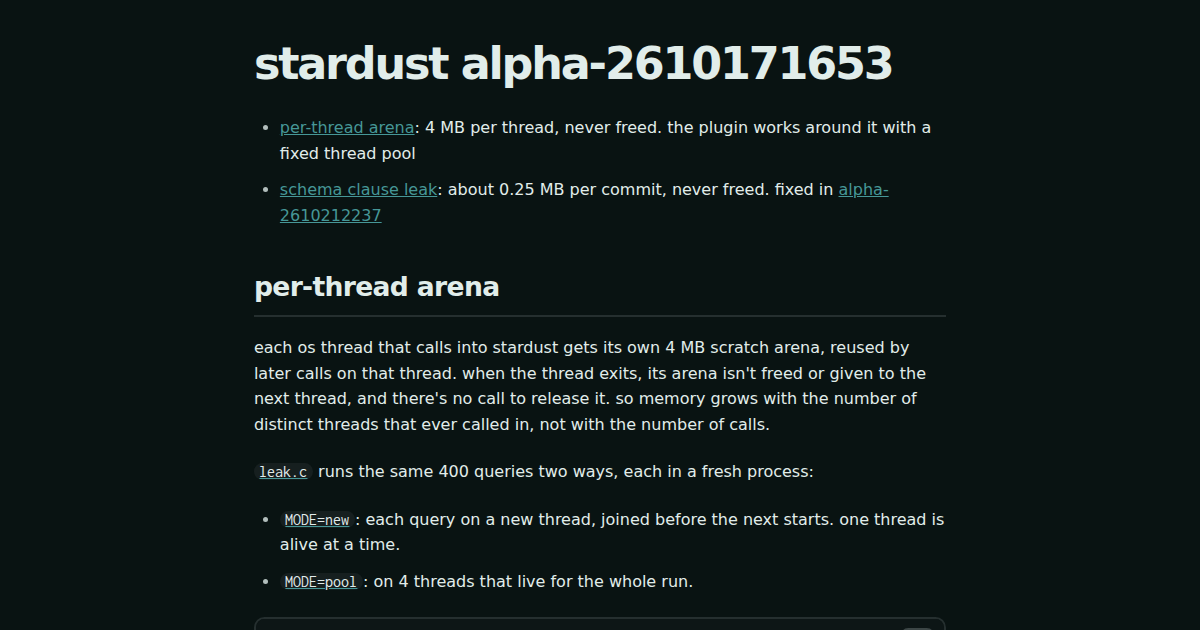
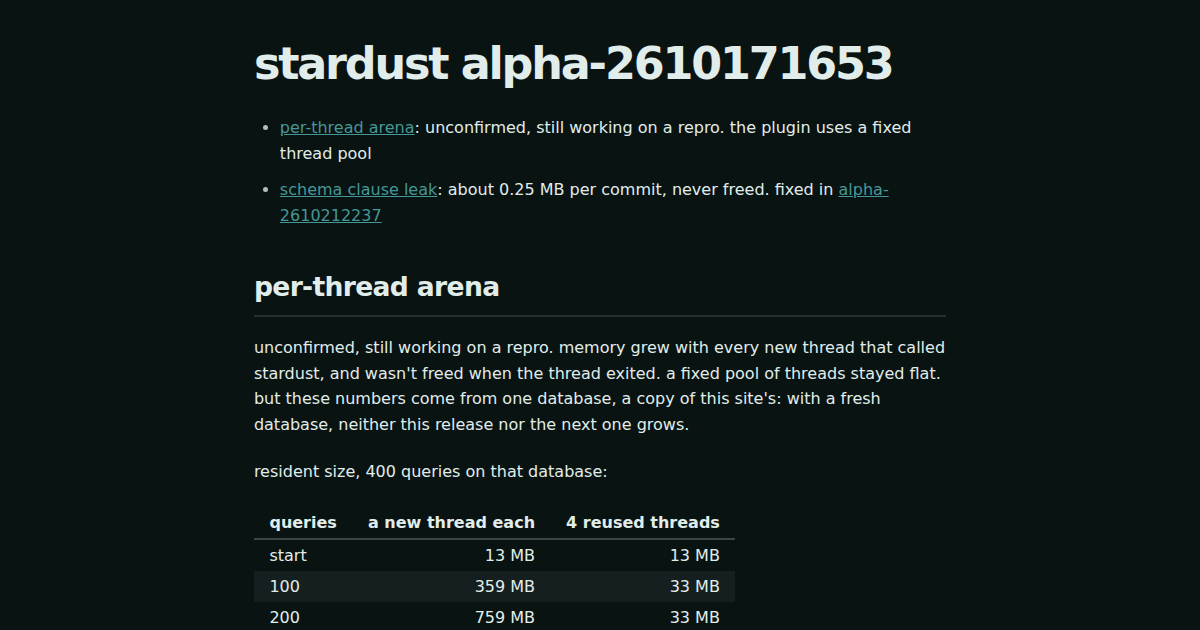
Per-thread leak: unconfirmed, only seen with one database; drop leak.c from the notes

diff --git a/src/pool.rs b/src/pool.rs
@@ -1,11 +1,12 @@
 //! A fixed set of threads for every call into Stardust.
 //!
-//! Stardust keeps a 4 MB scratch arena for each thread that calls into it,
-//! and doesn't reclaim it when the thread exits. nu runs a plugin call on a
-//! new thread whenever its runner thread is busy, which it is while any
-//! stream is open, so calling Stardust from there grows the plugin by about
-//! 4 MB per call until it is OOM-killed. Calls run here instead, on at most
-//! `size()` threads that live as long as the plugin.
+//! With the TodoMVC example's database, Stardust kept memory for each thread
+//! that called into it, up to 4 MB, and didn't reclaim it when the thread
+//! exited (unconfirmed: a fresh database doesn't show it). nu runs a plugin
+//! call on a new thread whenever its runner thread is busy, which it is
+//! while any stream is open, so calling Stardust from there grew the plugin
+//! with every call until it was OOM-killed. Calls run here instead, on at
+//! most `size()` threads that live as long as the plugin.
 
 use std::panic::{self, AssertUnwindSafe};
 use std::sync::mpsc::{self, Sender};

diff --git a/examples/todomvc/notes/alpha-2610171653/index.md b/examples/todomvc/notes/alpha-2610171653/index.md
@@ -1,41 +1,27 @@
 ---
-description: "per-thread arena: 4 MB per thread, never freed. schema clause leak: about 0.25 MB per commit, never freed."
+description: "schema clause leak: about 0.25 MB per commit, never freed. per-thread arena: unconfirmed, still working on a repro."
 # Each file beside this page, shown at the end of the section with that id.
 code:
-  leak.c: per-thread
   subcommit.c: schema-clause
 ---
 # stardust alpha-2610171653
 
-- [per-thread arena](#per-thread): 4 MB per thread, never freed. the plugin
-  works around it with a fixed thread pool
+- [per-thread arena](#per-thread): unconfirmed, still working on a repro. the
+  plugin uses a fixed thread pool
 - [schema clause leak](#schema-clause): about 0.25 MB per commit, never
   freed. fixed in [alpha-2610212237](../alpha-2610212237/#schema-clause)
 
 ## per-thread arena {#per-thread}
 
-each os thread that calls into stardust gets its own 4 MB scratch arena,
-reused by later calls on that thread. when the thread exits, its arena isn't
-freed or given to the next thread, and there's no call to release it. so
-memory grows with the number of distinct threads that ever called in, not
-with the number of calls.
+unconfirmed, still working on a repro. memory grew with every new thread
+that called stardust, and wasn't freed when the thread exited. a fixed pool
+of threads stayed flat. but these numbers come from one database, a copy of
+this site's: with a fresh database, neither this release nor the next one
+grows.
 
-[`leak.c`](#leak-c) runs the same 400 queries two ways, each in a fresh
-process:
+resident size, 400 queries on that database:
 
-- [`MODE=new`](#leak-c): each query on a new thread, joined before the next starts.
-  one thread is alive at a time.
-- [`MODE=pool`](#leak-c): on 4 threads that live for the whole run.
-
-```
-gcc -O2 -I$STARDUST/abi leak.c -L$STARDUST/lib/linux_amd64 -lstardust -lpthread \
-  -Wl,-rpath,$STARDUST/lib/linux_amd64 -o leak
-STARDUST_LICENSE=... MODE=new ./leak todos.db   # any db with a stored query at todos/list
-```
-
-resident size:
-
-| queries | [`MODE=new`](#leak-c) | [`MODE=pool`](#leak-c) |
+| queries | a new thread each | 4 reused threads |
 |---|---|---|
 | start | 13 MB | 13 MB |
 | 100 | 359 MB | 33 MB |

diff --git a/examples/todomvc/notes/alpha-2610212237/index.md b/examples/todomvc/notes/alpha-2610212237/index.md
@@ -1,28 +1,29 @@
 ---
-description: "per-thread arena: open, 4 MB to 0.3 MB per thread. schema clause leak: fixed."
+description: "schema clause leak: fixed. per-thread arena: unconfirmed, still working on a repro."
 # The repro code, from the release where it was written, shown at the end of
 # the section with that id.
 code_from: ../alpha-2610171653
 code:
-  leak.c: per-thread
   subcommit.c: schema-clause
 ---
 # stardust alpha-2610212237
 
-- [per-thread arena](#per-thread): open, 4 MB to 0.3 MB per thread
+- [per-thread arena](#per-thread): unconfirmed, still working on a repro
 - [schema clause leak](#schema-clause): fixed
 - an asOf parameter can't default to null: [`todos/list-at`](https://github.com/cablehead/nu_plugin_stardust/blob/f5e0c7a/examples/todomvc/serve.nu#L92) defaults ?at to 1
 - [`reactors sync`](https://github.com/cablehead/nu_plugin_stardust/commit/e168e50) is gone
 
-## open {#open}
+## unconfirmed {#unconfirmed}
 
 ### per-thread arena {#per-thread}
 
-each thread that calls stardust leaves memory behind that's never freed. on
-this release it's about 0.3 MB per thread, down from 4 MB. a fixed pool of
-threads stays flat.
+unconfirmed, still working on a repro. these numbers come from one
+database, a copy of this site's: with a fresh database, neither release
+grows per thread. the plugin keeps its fixed thread pool.
 
-| queries | now | before | now, pool |
+resident size, 400 queries on that database:
+
+| queries | now | before | now, 4 reused threads |
 |---|---|---|---|
 | start | 17 MB | 13 MB | 17 MB |
 | 100 | 47 MB | 359 MB | 37 MB |

diff --git a/examples/todomvc/README.md b/examples/todomvc/README.md
@@ -142,10 +142,12 @@ checks the id is a todo (`todos/get`) before deleting.
   which ends it. See the plugin README's known limitations.
 - http-nu interrupts a disconnected viewer's request and logs it as an error
   (`Operation interrupted`). Other viewers are unaffected.
-- Stardust keeps memory for each thread that calls into it, and doesn't
-  reclaim it when the thread exits (see [`notes/`](notes)). nu runs plugin
-  calls on new threads, so the plugin makes every Stardust call from a fixed
-  pool of threads instead (`src/pool.rs`).
+- With this site's database, Stardust kept memory for each thread that
+  called into it, and didn't reclaim it when the thread exited. It's
+  unconfirmed: a fresh database doesn't show it, and a repro is in progress
+  (see [`notes/`](notes)). nu runs plugin calls on new threads, so the plugin
+  makes every Stardust call from a fixed pool of threads instead
+  (`src/pool.rs`).
 - If the plugin dies, out of memory for instance, nu starts a new plugin,
   but `$db` belongs to the old one and every call on it fails. So each
   request checks that the plugin found at startup is still in `/proc`. If it

diff --git a/README.md b/README.md
@@ -211,8 +211,9 @@ Entity references stay as `{#link id}` records.
 - **Threads.** In this release the database and its handles are `Send + Sync`,
   so one plugin process serves every call. All jobs in a nu session share it.
   Every call into Stardust runs on a small fixed pool of threads
-  (`src/pool.rs`): Stardust keeps memory for each thread that calls it, even
-  after the thread exits, and nu runs plugin calls on new threads.
+  (`src/pool.rs`): with this site's database, Stardust kept memory for each
+  thread that called it, even after the thread exited (unconfirmed, see the
+  TodoMVC notes), and nu runs plugin calls on new threads.
 - **Subscriptions.** The binding's `next` is async; nu streams are iterators.
   So the stream polls `next().await` on its own thread, parking until
   Stardust wakes it.
